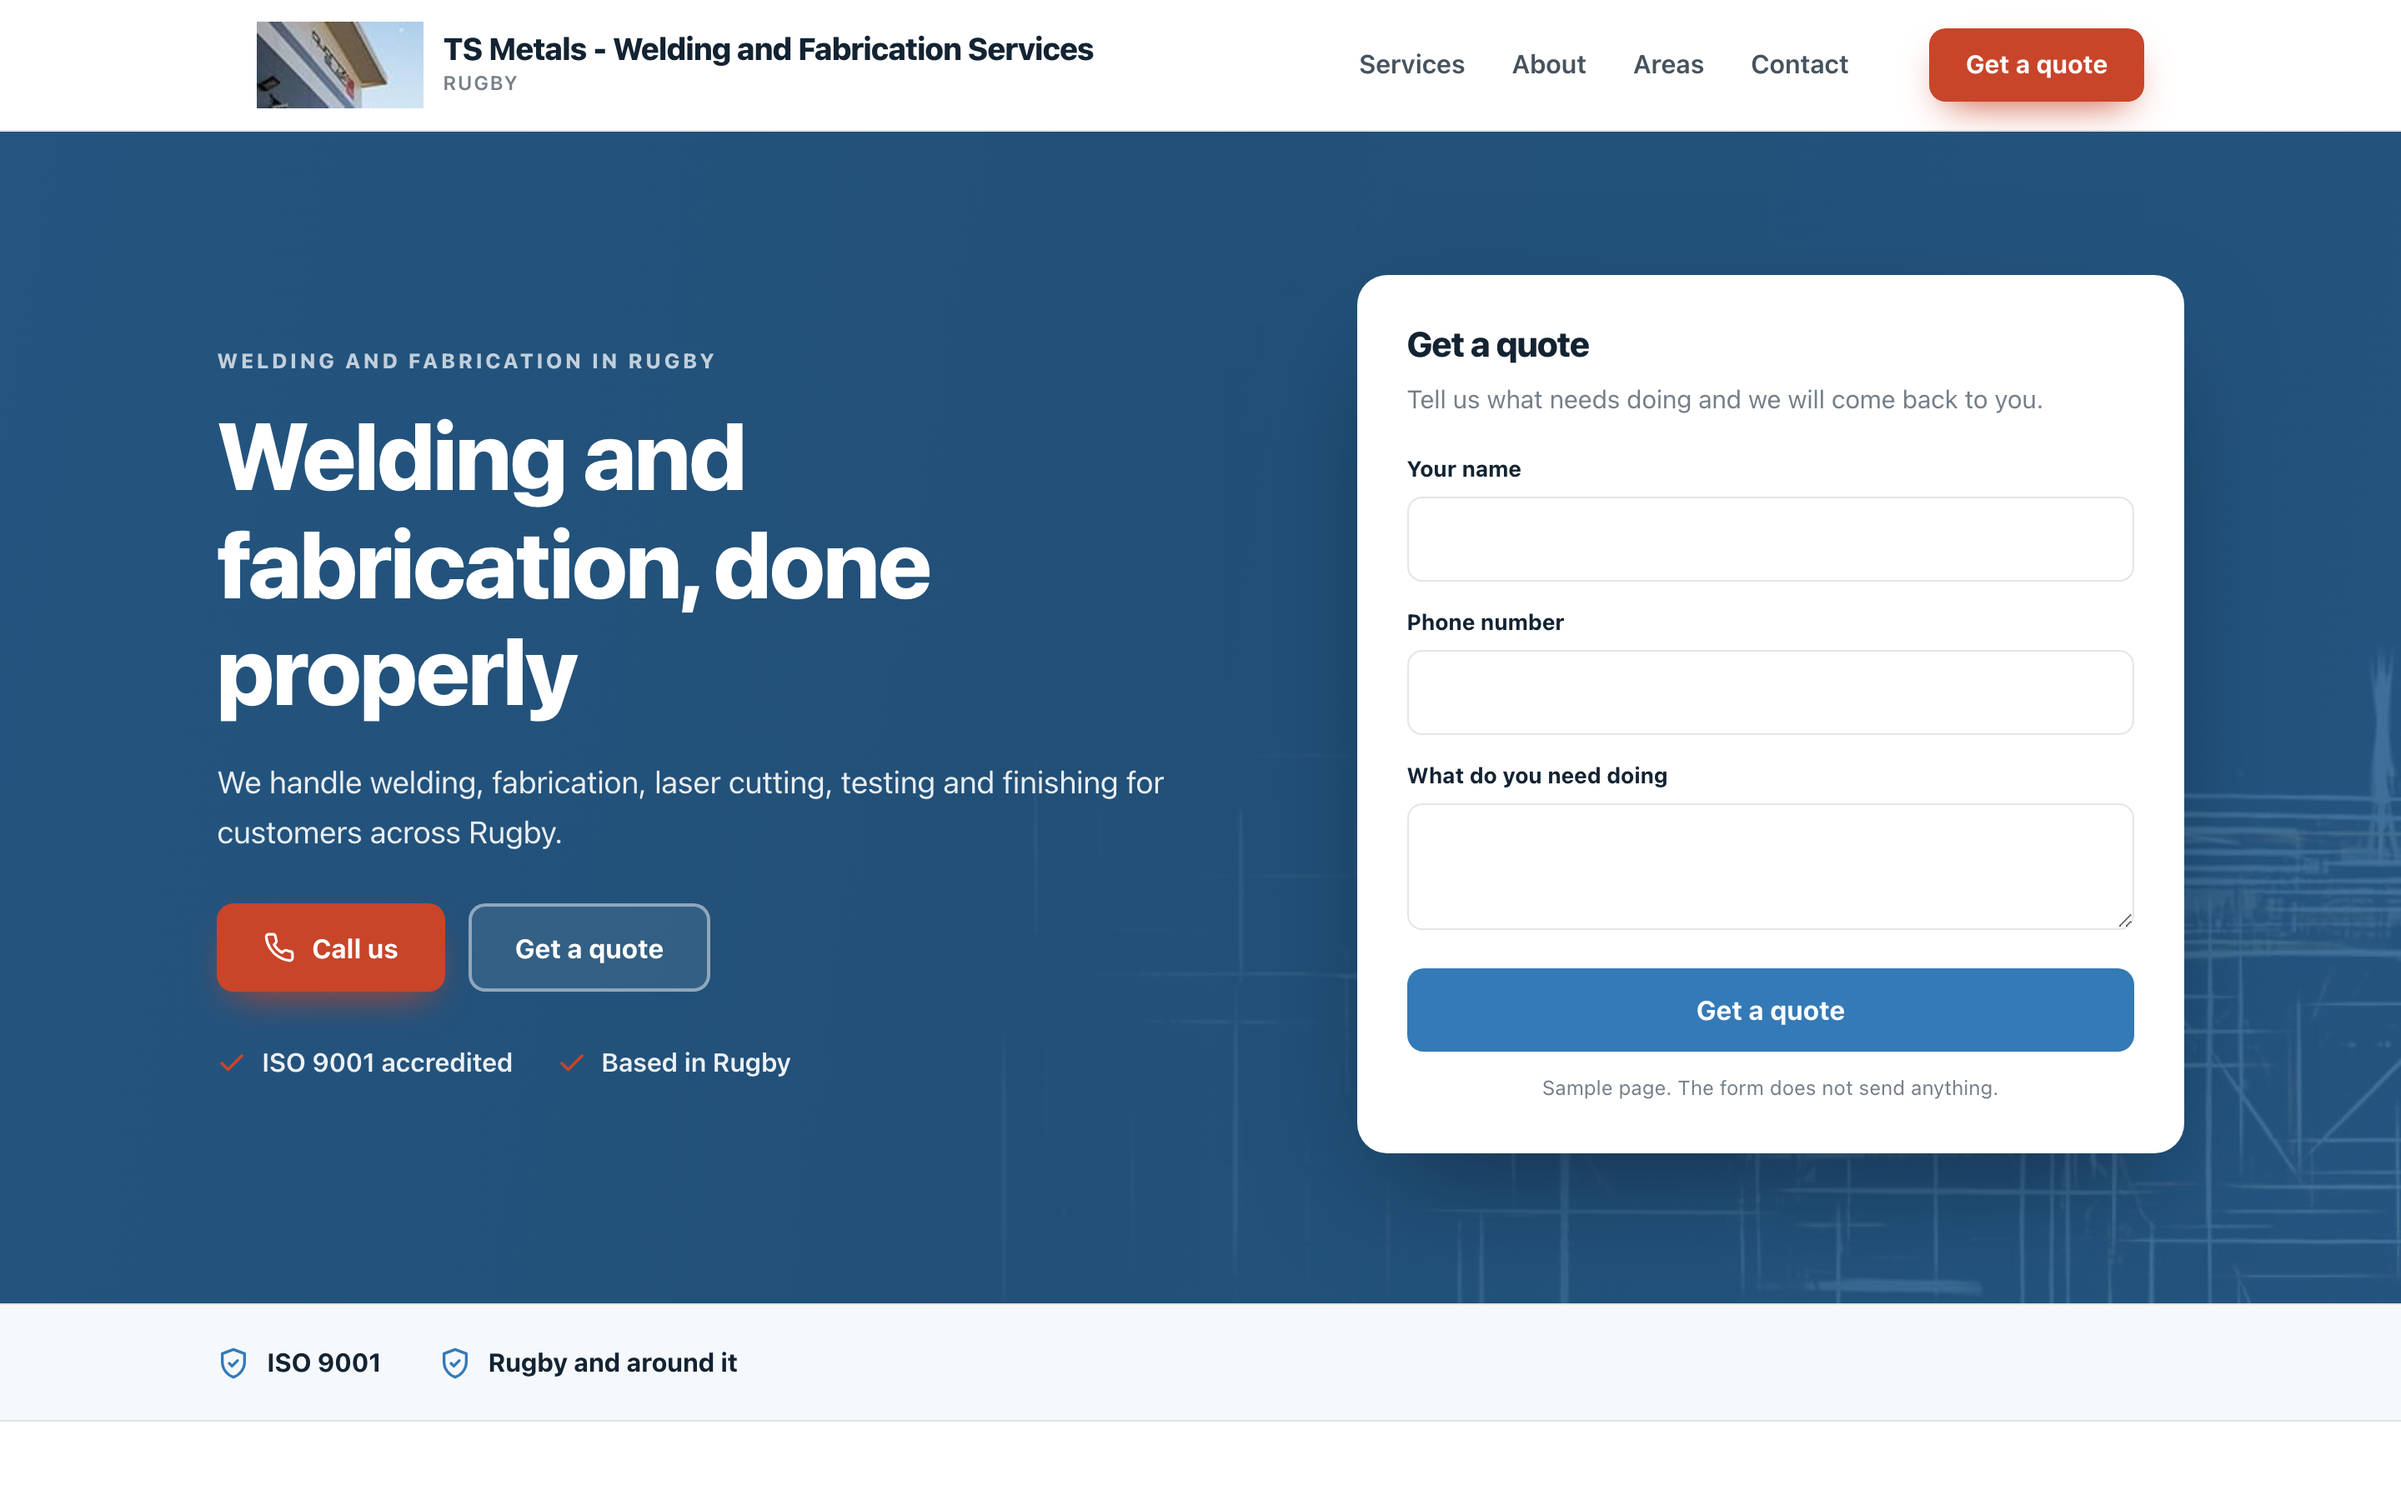
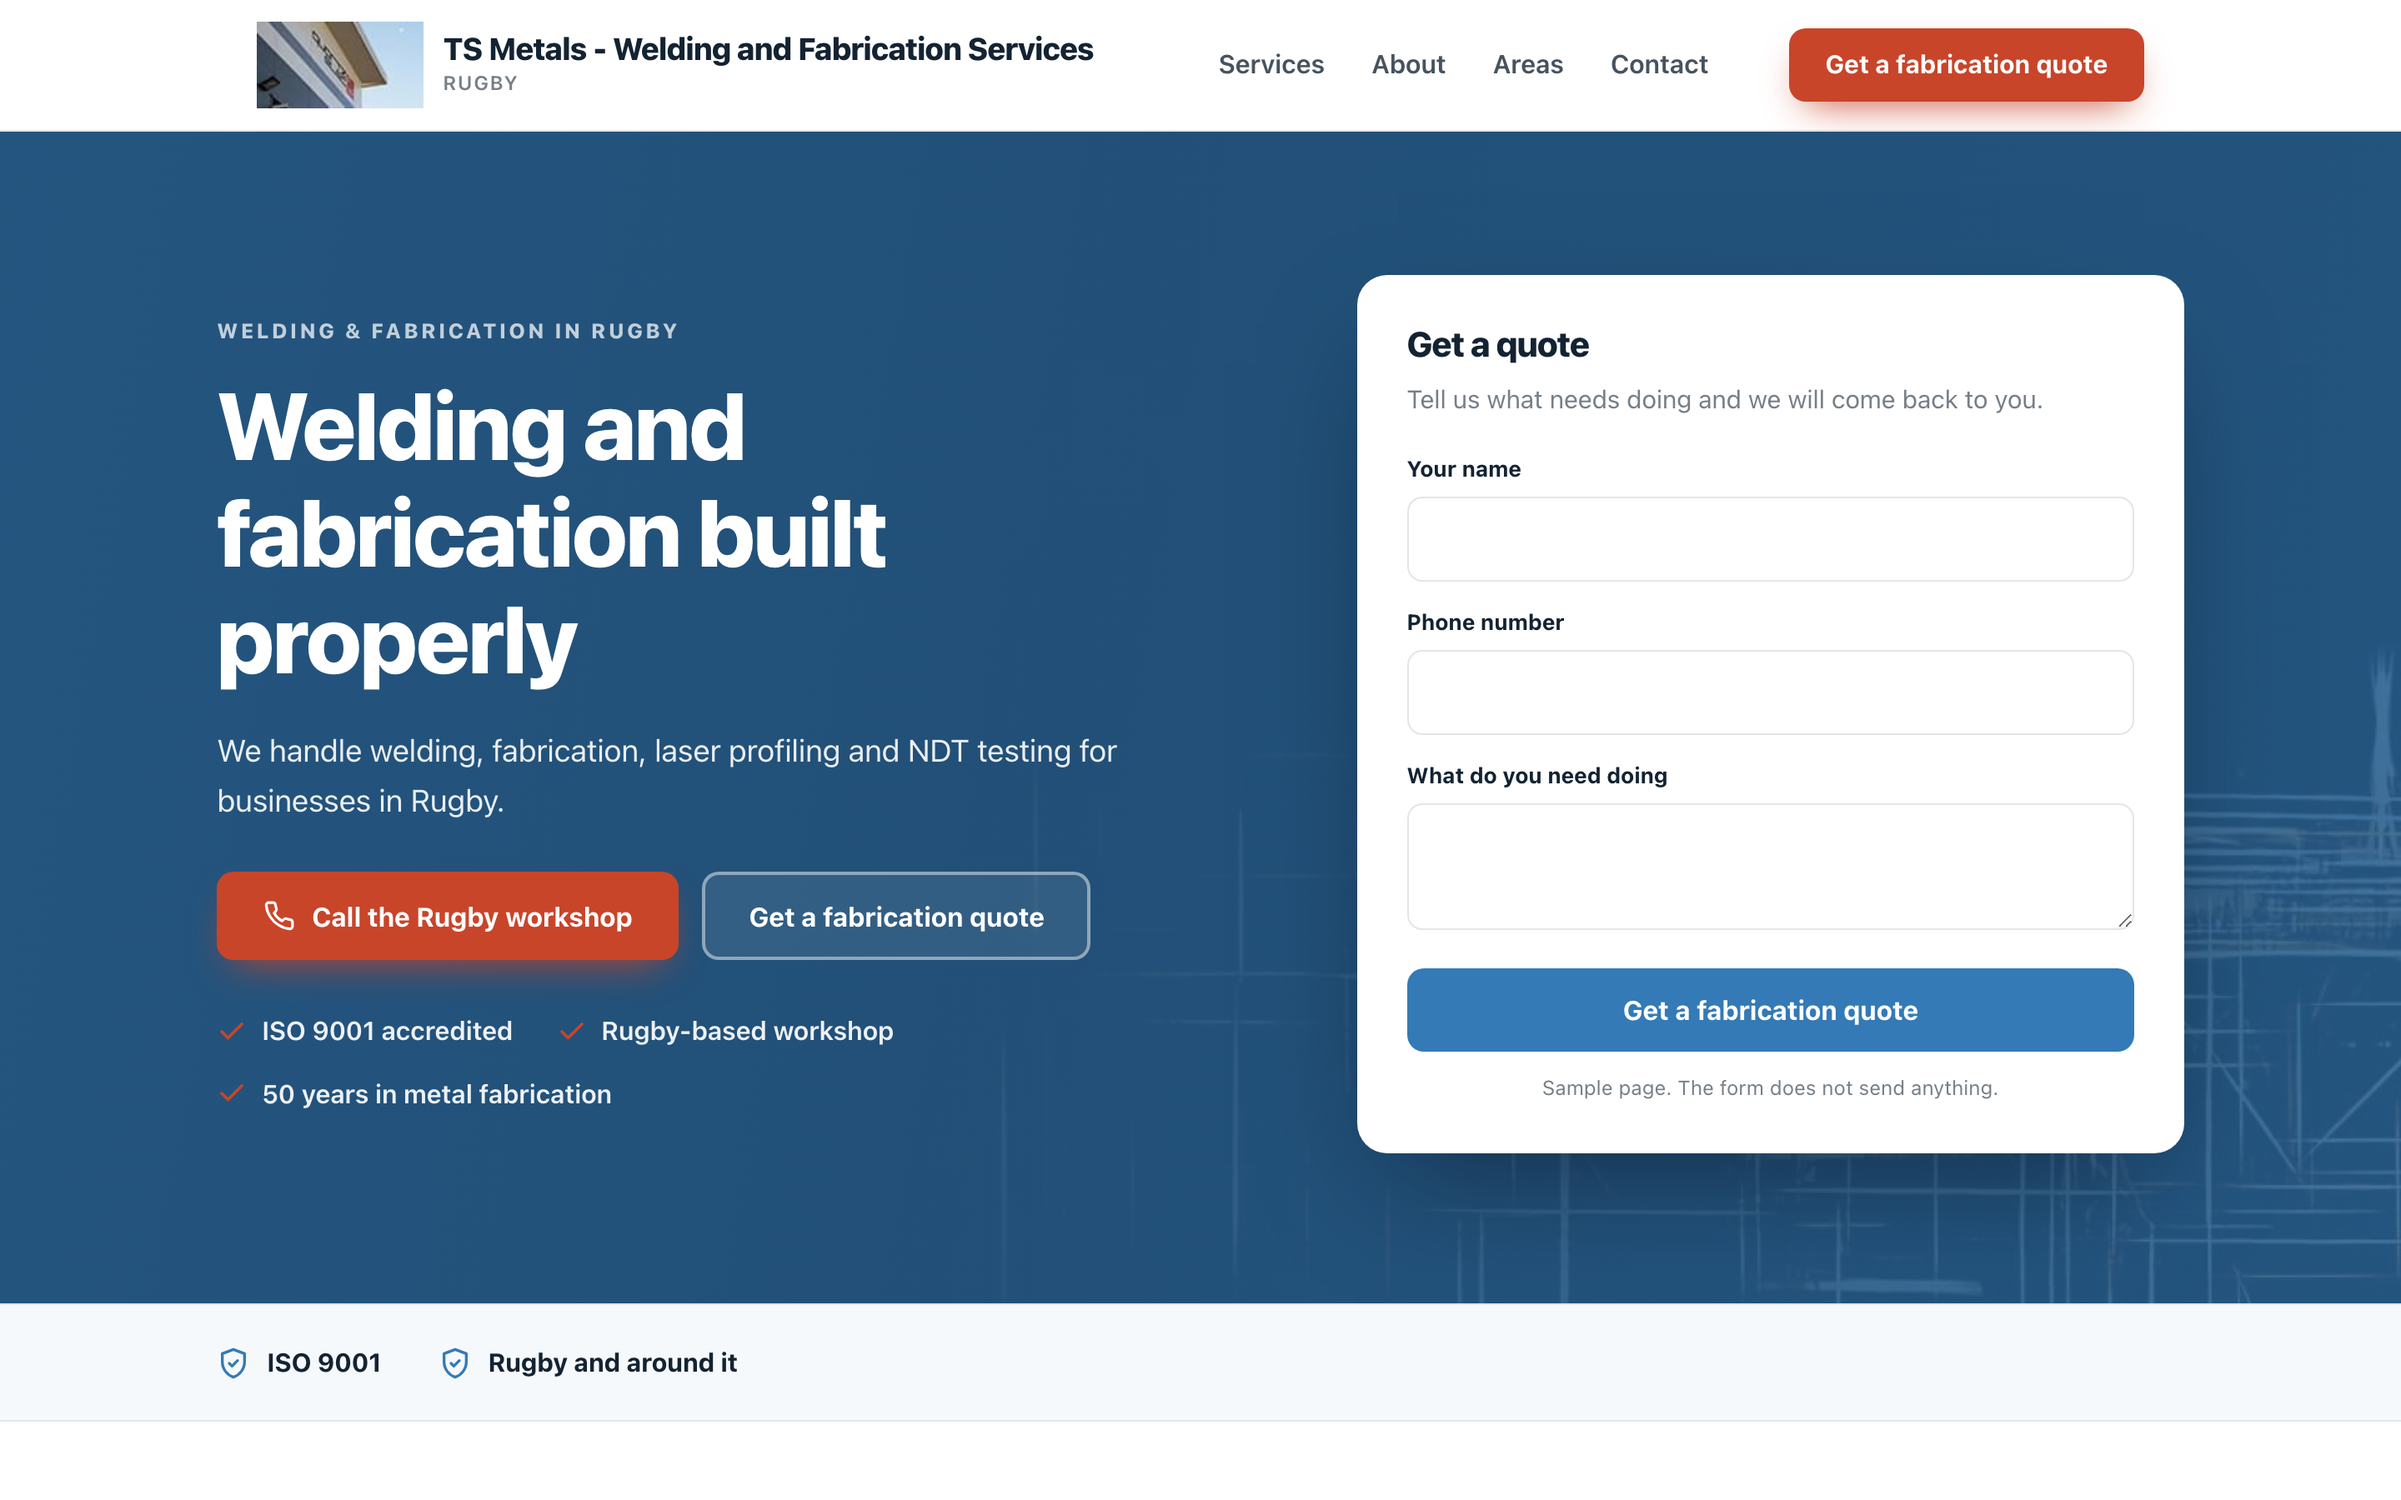
Sample homepage for TS Metals - Welding and Fabrication Services

Changed region(s): [[0.0938, 0.2178, 0.4688, 0.7467], [0.5, 0.0, 0.8438, 0.0933], [0.6875, 0.6533, 0.8125, 0.6844]]

diff --git a/docs/8e60f51a86/index.html b/docs/8e60f51a86/index.html
@@ -6,11 +6,11 @@
 <meta name="robots" content="noindex,nofollow">
 <meta name="aso-build" content="">
 <title>TS Metals - Welding and Fabrication Services sample homepage</title>
-<meta name="description" content="We handle welding, fabrication, laser cutting, testing and finishing for customers across Rugby.">
+<meta name="description" content="We handle welding, fabrication, laser profiling and NDT testing for businesses in Rugby.">
 <link rel="canonical" href="https://markygff.github.io/aso-mockups/8e60f51a86/">
 <meta property="og:type" content="website">
 <meta property="og:title" content="TS Metals - Welding and Fabrication Services sample homepage">
-<meta property="og:description" content="We handle welding, fabrication, laser cutting, testing and finishing for customers across Rugby.">
+<meta property="og:description" content="We handle welding, fabrication, laser profiling and NDT testing for businesses in Rugby.">
 <meta property="og:url" content="https://markygff.github.io/aso-mockups/8e60f51a86/">
 <meta property="og:image" content="img/p19.jpg"><style>
 :root{
@@ -129,7 +129,7 @@ p{margin:0}
       <span>Services</span><span>About</span><span>Areas</span><span>Contact</span>
     </nav>
     <div class="header-cta">
-      <span class="btn btn-accent">Get a quote</span>
+      <span class="btn btn-accent">Get a fabrication quote</span>
     </div>
   </div>
 </header>
@@ -138,15 +138,15 @@ p{margin:0}
   <div class="hero-bg"><img src="img/p19.jpg" alt="Who we are" width="1600" height="900"></div>
   <div class="wrap hero-in">
     <div>
-      <p class="eyebrow">Welding and fabrication in Rugby</p>
-      <h1>Welding and fabrication, done properly</h1>
-      <p class="hero-sub">We handle welding, fabrication, laser cutting, testing and finishing for customers across Rugby.</p>
+      <p class="eyebrow">Welding &amp; fabrication in Rugby</p>
+      <h1>Welding and fabrication built properly</h1>
+      <p class="hero-sub">We handle welding, fabrication, laser profiling and NDT testing for businesses in Rugby.</p>
       <div class="hero-actions">
-        <span class="btn btn-accent"><svg viewBox="0 0 24 24" fill="none" stroke="currentColor" stroke-width="2" stroke-linecap="round" stroke-linejoin="round" aria-hidden="true"><path d="M22 16.9v3a2 2 0 0 1-2.2 2 19.8 19.8 0 0 1-8.6-3.1 19.5 19.5 0 0 1-6-6 19.8 19.8 0 0 1-3.1-8.7A2 2 0 0 1 4.1 2h3a2 2 0 0 1 2 1.7c.1 1 .4 1.9.7 2.8a2 2 0 0 1-.5 2.1L8.1 9.9a16 16 0 0 0 6 6l1.3-1.2a2 2 0 0 1 2.1-.5c.9.3 1.8.6 2.8.7a2 2 0 0 1 1.7 2z"/></svg>Call us</span>
-        <span class="btn btn-ghost">Get a quote</span>
+        <span class="btn btn-accent"><svg viewBox="0 0 24 24" fill="none" stroke="currentColor" stroke-width="2" stroke-linecap="round" stroke-linejoin="round" aria-hidden="true"><path d="M22 16.9v3a2 2 0 0 1-2.2 2 19.8 19.8 0 0 1-8.6-3.1 19.5 19.5 0 0 1-6-6 19.8 19.8 0 0 1-3.1-8.7A2 2 0 0 1 4.1 2h3a2 2 0 0 1 2 1.7c.1 1 .4 1.9.7 2.8a2 2 0 0 1-.5 2.1L8.1 9.9a16 16 0 0 0 6 6l1.3-1.2a2 2 0 0 1 2.1-.5c.9.3 1.8.6 2.8.7a2 2 0 0 1 1.7 2z"/></svg>Call the Rugby workshop</span>
+        <span class="btn btn-ghost">Get a fabrication quote</span>
       </div>
       <ul class="hero-bullets">
-<li><svg viewBox="0 0 24 24" fill="none" stroke="currentColor" stroke-width="2.4" stroke-linecap="round" stroke-linejoin="round" aria-hidden="true"><path d="M20 6 9 17l-5-5"/></svg><span>ISO 9001 accredited</span></li><li><svg viewBox="0 0 24 24" fill="none" stroke="currentColor" stroke-width="2.4" stroke-linecap="round" stroke-linejoin="round" aria-hidden="true"><path d="M20 6 9 17l-5-5"/></svg><span>Based in Rugby</span></li>      </ul>
+<li><svg viewBox="0 0 24 24" fill="none" stroke="currentColor" stroke-width="2.4" stroke-linecap="round" stroke-linejoin="round" aria-hidden="true"><path d="M20 6 9 17l-5-5"/></svg><span>ISO 9001 accredited</span></li><li><svg viewBox="0 0 24 24" fill="none" stroke="currentColor" stroke-width="2.4" stroke-linecap="round" stroke-linejoin="round" aria-hidden="true"><path d="M20 6 9 17l-5-5"/></svg><span>Rugby-based workshop</span></li><li><svg viewBox="0 0 24 24" fill="none" stroke="currentColor" stroke-width="2.4" stroke-linecap="round" stroke-linejoin="round" aria-hidden="true"><path d="M20 6 9 17l-5-5"/></svg><span>50 years in metal fabrication</span></li>      </ul>
     </div>
     <div class="quote-card">
       <h3>Get a quote</h3>
@@ -154,7 +154,7 @@ p{margin:0}
       <div class="field"><label>Your name</label><input type="text" disabled></div>
       <div class="field"><label>Phone number</label><input type="tel" disabled></div>
       <div class="field"><label>What do you need doing</label><textarea disabled></textarea></div>
-      <span class="btn btn-primary">Get a quote</span>
+      <span class="btn btn-primary">Get a fabrication quote</span>
       <p class="sample-note">Sample page. The form does not send anything.</p>
     </div>
   </div>
@@ -172,28 +172,28 @@ p{margin:0}
     <div class="services-head">
       <p class="eyebrow">What we do</p>
       <h2>TS Metals - Welding and Fabrication Services, Rugby</h2>
-      <p>We handle welding, fabrication, laser cutting, testing and finishing for customers across Rugby.</p>
+      <p>We handle welding, fabrication, laser profiling and NDT testing for businesses in Rugby.</p>
     </div>
     <div class="grid">
       <article class="card">
         <div class="icon"><svg viewBox="0 0 24 24" fill="none" stroke="currentColor" stroke-width="2" stroke-linecap="round" stroke-linejoin="round" aria-hidden="true"><path d="M14.7 6.3a4 4 0 0 0 5.3 5.3l-8 8a3 3 0 0 1-4.2-4.2z"/><path d="m14.7 6.3 3-3"/></svg></div>
         <h3>Welding &amp; Fabrication</h3>
-        <p>Full welding and fabrication work, from single parts to finished assemblies.</p>
+        <p>Full welding and fabrication work, from bespoke parts to finished assemblies.</p>
       </article>
       <article class="card">
         <div class="icon"><svg viewBox="0 0 24 24" fill="none" stroke="currentColor" stroke-width="2" stroke-linecap="round" stroke-linejoin="round" aria-hidden="true"><path d="M13 2 4 14h7l-1 8 9-12h-7z"/></svg></div>
         <h3>Laser Profiling</h3>
-        <p>Laser cutting for one-off parts, prototypes and batch runs.</p>
+        <p>Laser cut parts for one-off projects, prototypes and batch runs.</p>
       </article>
       <article class="card">
         <div class="icon"><svg viewBox="0 0 24 24" fill="none" stroke="currentColor" stroke-width="2" stroke-linecap="round" stroke-linejoin="round" aria-hidden="true"><path d="M3 10.5 12 3l9 7.5"/><path d="M5 9.5V21h14V9.5"/><path d="M10 21v-6h4v6"/></svg></div>
         <h3>NDT Services</h3>
-        <p>Testing and inspection work to check every job meets standard.</p>
+        <p>Inspection and testing to check every job meets spec.</p>
       </article>
       <article class="card">
         <div class="icon"><svg viewBox="0 0 24 24" fill="none" stroke="currentColor" stroke-width="2" stroke-linecap="round" stroke-linejoin="round" aria-hidden="true"><path d="M4 20 15 9"/><path d="m14 4 6 6-3 3-6-6z"/><path d="m3 15 6 6"/></svg></div>
         <h3>Finishing Services</h3>
-        <p>Coating and finishing to protect fabrications in their working environment.</p>
+        <p>Coatings and finishing to protect fabrications in the field.</p>
       </article>
     </div>
   </div>
